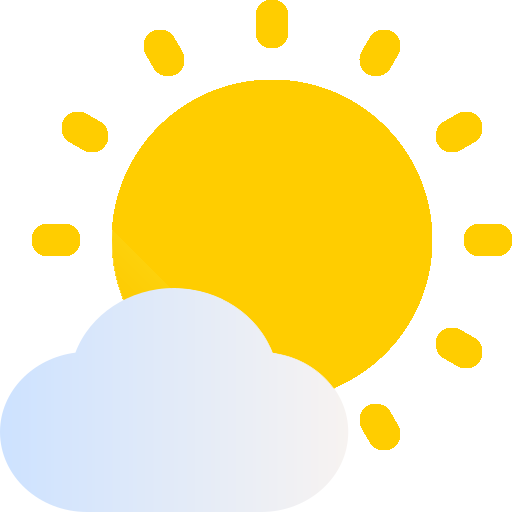
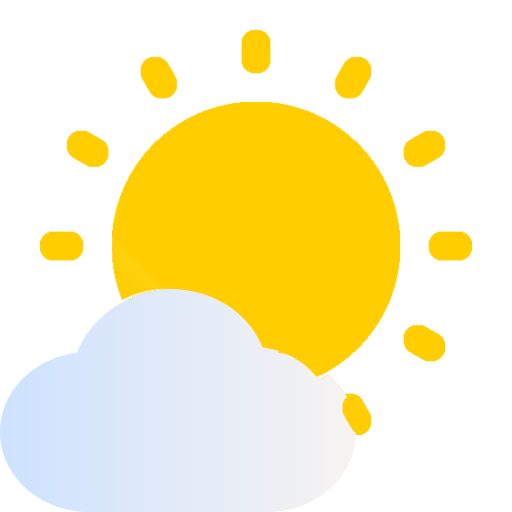
changed partly cloudy image to fit better

diff --git a/index.html b/index.html
@@ -33,8 +33,7 @@
         <div class="row">
           <div class="col-md-6">
             <div class="box">
-              <img class="current_temp_icon" src="https://ssl.gstatic.com/onebox/weather/64/partly_cloudy.png"
-                alt="sunny">
+              <img class="current_temp_icon" src="Images/sunnywithclouds.png" alt="sunny">
               <span class="current_temp" id="temp_now">24</span>
               <div class="degree">
                 <span class="celcius" id="degree_c">°C </span>|<span class="farenheit" id="degree_f"> °F</span>
